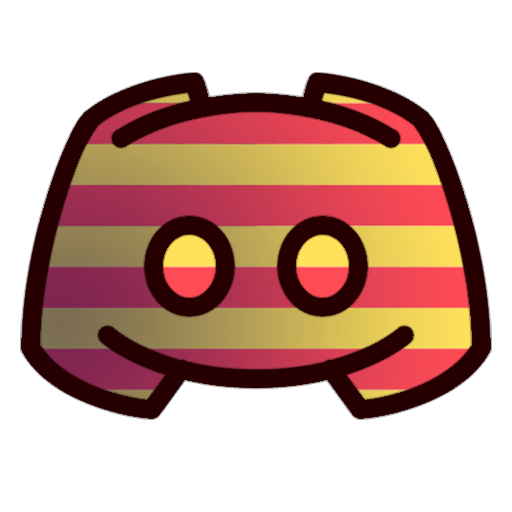
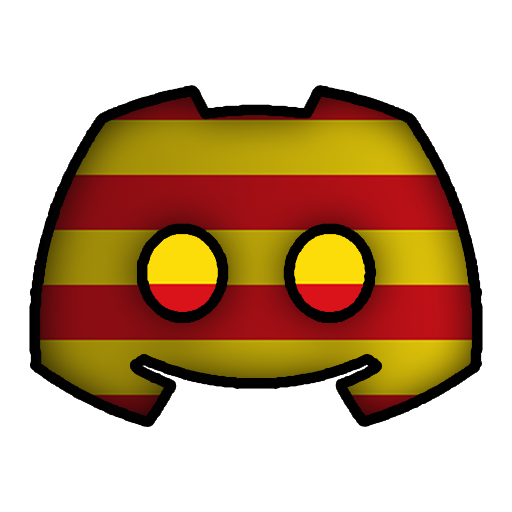
Fixes #130

diff --git a/README.md b/README.md
@@ -7,7 +7,7 @@
 ![ ](https://img.shields.io/github/stars/CatalaHD/CataBot)
 ![ ](https://img.shields.io/github/license/CatalaHD/CataBot)
 
-![icon_gif](https://raw.githubusercontent.com/CatalaHD/CataBot/master/imgs/gif_frames/icon_new.gif)
+![icon_image](https://raw.githubusercontent.com/CatalaHD/CataBot/main/imgs/icon_cat.png)
 
 ## Contribuiting
 
